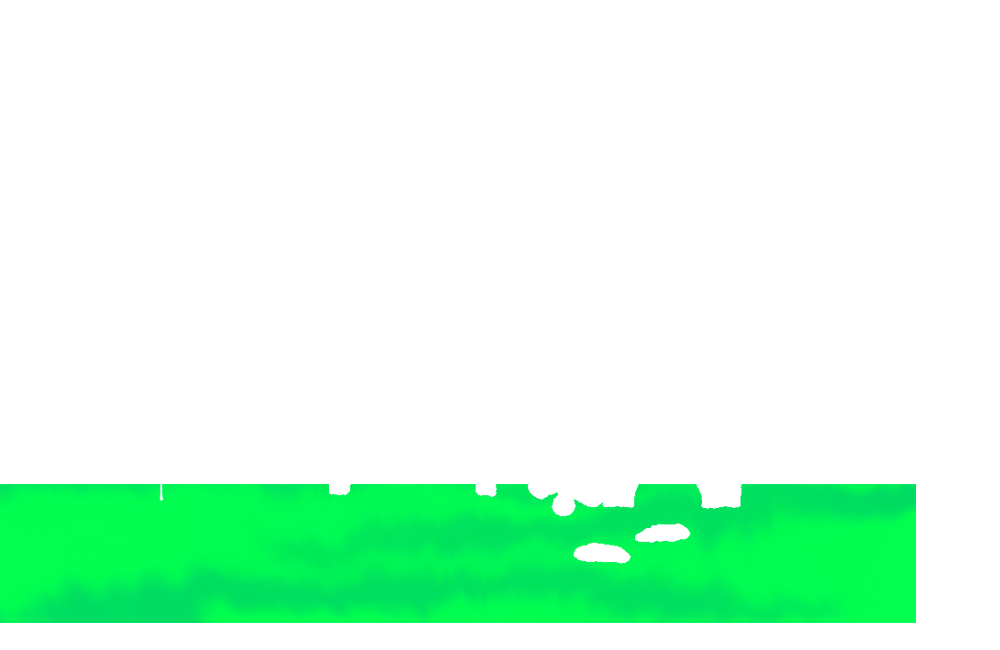
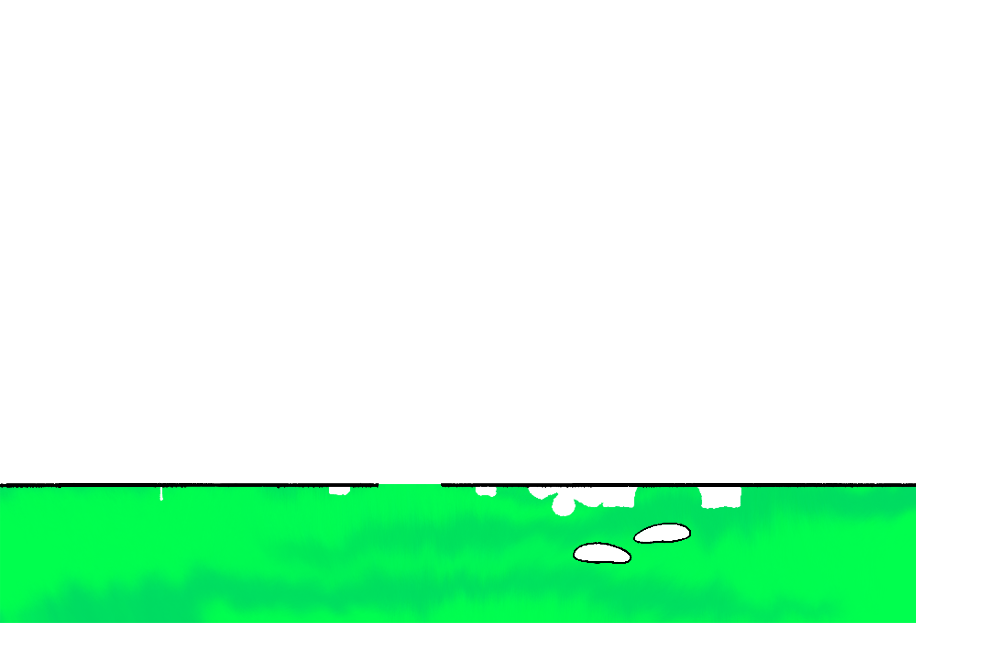
image update, success screen, help button

Changed region(s): [[0.434, 0.7385, 0.93, 0.7692], [0.0, 0.7385, 0.372, 0.7692], [0.558, 0.8, 0.682, 0.8923]]

diff --git a/src/main/java/com/example/escape_the_lab/controller/AcidNeutralizationLab.java b/src/main/java/com/example/escape_the_lab/controller/AcidNeutralizationLab.java
@@ -6,6 +6,7 @@ import com.example.escape_the_lab.model.Lab;
 import com.example.escape_the_lab.model.Player;
 import com.example.escape_the_lab.model.Substance;
 import com.example.escape_the_lab.ui.Help;
+import com.example.escape_the_lab.ui.Inventory;
 import com.example.escape_the_lab.ui.Overlay;
 import com.example.escape_the_lab.ui.rAcidNeutralization;
 import javafx.application.Platform;
@@ -56,6 +57,7 @@ public class AcidNeutralizationLab extends Lab {
     rAcidNeutralization acidNeutralizationLabUI;
     private LifeManager lifeManager;
     private Player player = GameController.getPlayer();
+    private Inventory inventory1;
 
     Item chosenItem;
     Item redTool = new Item("Calcium Carbonate", "/images/AAAAcidLab/rTA.png"); // yes
@@ -63,6 +65,9 @@ public class AcidNeutralizationLab extends Lab {
     Item greenTool = new Item("Sodium Hydroxide", "/images/AAAAcidLab/gTA.png"); // yes
     Item pinkTool = new Item("Ammonia", "/images/AAAAcidLab/pTA.png");
     Item purpleTool = new Item("Water", "/images/AAAAcidLab/puTA.png");
+
+    private ImageView escaped = new ImageView(new Image(Objects.requireNonNull(getClass().getResource("/images/doneBg.png")).toExternalForm()));
+    private ImageView escapedButton = new ImageView(new Image(Objects.requireNonNull(getClass().getResource("/images/done.png")).toExternalForm()));
 
     private final ImageView red = new ImageView(new Image(Objects.requireNonNull(getClass().getResource("/images/AAAAcidLab/rA.png")).toExternalForm()));
     private final ImageView yellow = new ImageView(new Image(Objects.requireNonNull(getClass().getResource("/images/AAAAcidLab/yA.png")).toExternalForm()));
@@ -97,6 +102,7 @@ public class AcidNeutralizationLab extends Lab {
         this.overlay = GameController.getOverlay();
         this.acidNeutralizationLabUI = new rAcidNeutralization(stage);
         this.lifeManager = GameController.getLifeManager();
+        this.inventory1 = overlay.getInventory();
     }
 
     /**
@@ -522,7 +528,9 @@ public class AcidNeutralizationLab extends Lab {
             succeedLab = true;
             doorOpen(primaryStage);
             arenaPane.getChildren().remove(acidFloorA);
-            showSuccessScreen();
+            doorA.setOnMouseClicked(event -> {
+                showSuccessScreen();
+            });
         } else if (droppedSubstances.size() >= 2) {
             showFailedScreen();
             System.out.println("Incorrect substances! You lose a life.");
@@ -534,50 +542,17 @@ public class AcidNeutralizationLab extends Lab {
      */
     private void showSuccessScreen() {
         succeedLab = true;
+        StackPane stackPane = new StackPane(escaped, escapedButton);
         Stage successStage = new Stage();
-        if (!player.getLanguage().equals("en")) {
-            successStage.setTitle("Labo Complété!");
-
-            Label successLabelFr = new Label("Vous avez neutralisé la solution avec succès!\n " +
-                    " L'acide chlorhydrique (HCl) a été neutralisé par deux bases différentes: \n " +
-                    " NaOH et CaCO₃. NaOH a réagi selon une réaction acide-base classique" +
-                    "pour former du sel et de l'eau,\n tandis que CaCO₃ a créé un effet de bulles en libérant du CO₂.");
-            successLabelFr.setStyle("-fx-font-size: 16px; -fx-text-fill: white;");
-            successLabelFr.setWrapText(true);
-            successLabelFr.setMaxWidth(450);
-            Button closeButtonFr = new Button("Fermé");
-            closeButtonFr.setOnAction(e -> successStage.close());
-            closeButtonFr.setStyle("-fx-background-color: white; -fx-text-fill: black; -fx-font-size: 14px;");
-
-            VBox layoutFr = new VBox(10, successLabelFr, closeButtonFr);
-            layoutFr.setAlignment(Pos.CENTER);
-            layoutFr.setPadding(new Insets(20));
-            layoutFr.setStyle("-fx-background-color: black;");
-
-            Scene successSceneFr = new Scene(layoutFr, 1000, 650);
-            successStage.setScene(successSceneFr);
-        } else {
-            successStage.setTitle("Lab Complete!");
-
-            Label successLabel = new Label("You successfully neutralized the solution!\n "
-                    + "Hydrochloric acid (HCl) was neutralized by two different bases: "
-                    + "NaOH and CaCO₃. NaOH reacted in a typical acid-base reaction"
-                    + "to form salt and water,\n while CaCO₃ created a bubbling effect by releasing CO₂ gas.");
-            successLabel.setStyle("-fx-font-size: 16px; -fx-text-fill: white;");
-            successLabel.setWrapText(true);
-            successLabel.setMaxWidth(450);
-            Button closeButton = new Button("OK");
-            closeButton.setOnAction(e -> successStage.close());
-            closeButton.setStyle("-fx-background-color: white; -fx-text-fill: black; -fx-font-size: 14px;");
-
-            VBox layout = new VBox(10, successLabel, closeButton);
-            layout.setAlignment(Pos.CENTER);
-            layout.setPadding(new Insets(20));
-            layout.setStyle("-fx-background-color: black;");
-
-            Scene successScene = new Scene(layout, 1000, 650);
-            successStage.setScene(successScene);
-        }
+        escapedButton.setOnMouseClicked(event -> {
+            primaryStage.setScene(GameController.getScene());
+            lifeManager.resetLives();
+            inventory1.resetInventory();
+            overlay.updateInventory();
+            successStage.close();
+        });
+        Scene successScene = new Scene(stackPane, 1000, 650);
+        successStage.setScene(successScene);
         successStage.show();
     }
 

diff --git a/src/main/java/com/example/escape_the_lab/ui/Overlay.java b/src/main/java/com/example/escape_the_lab/ui/Overlay.java
@@ -42,11 +42,6 @@ public class Overlay {
     }
 
     private ImageView createHelpButton() {
-        helpButton.setFitWidth(40);
-        helpButton.setFitHeight(40);
-        helpButton.setLayoutX(890);
-        helpButton.setLayoutY(590);
-
         return helpButton;
     }
 
